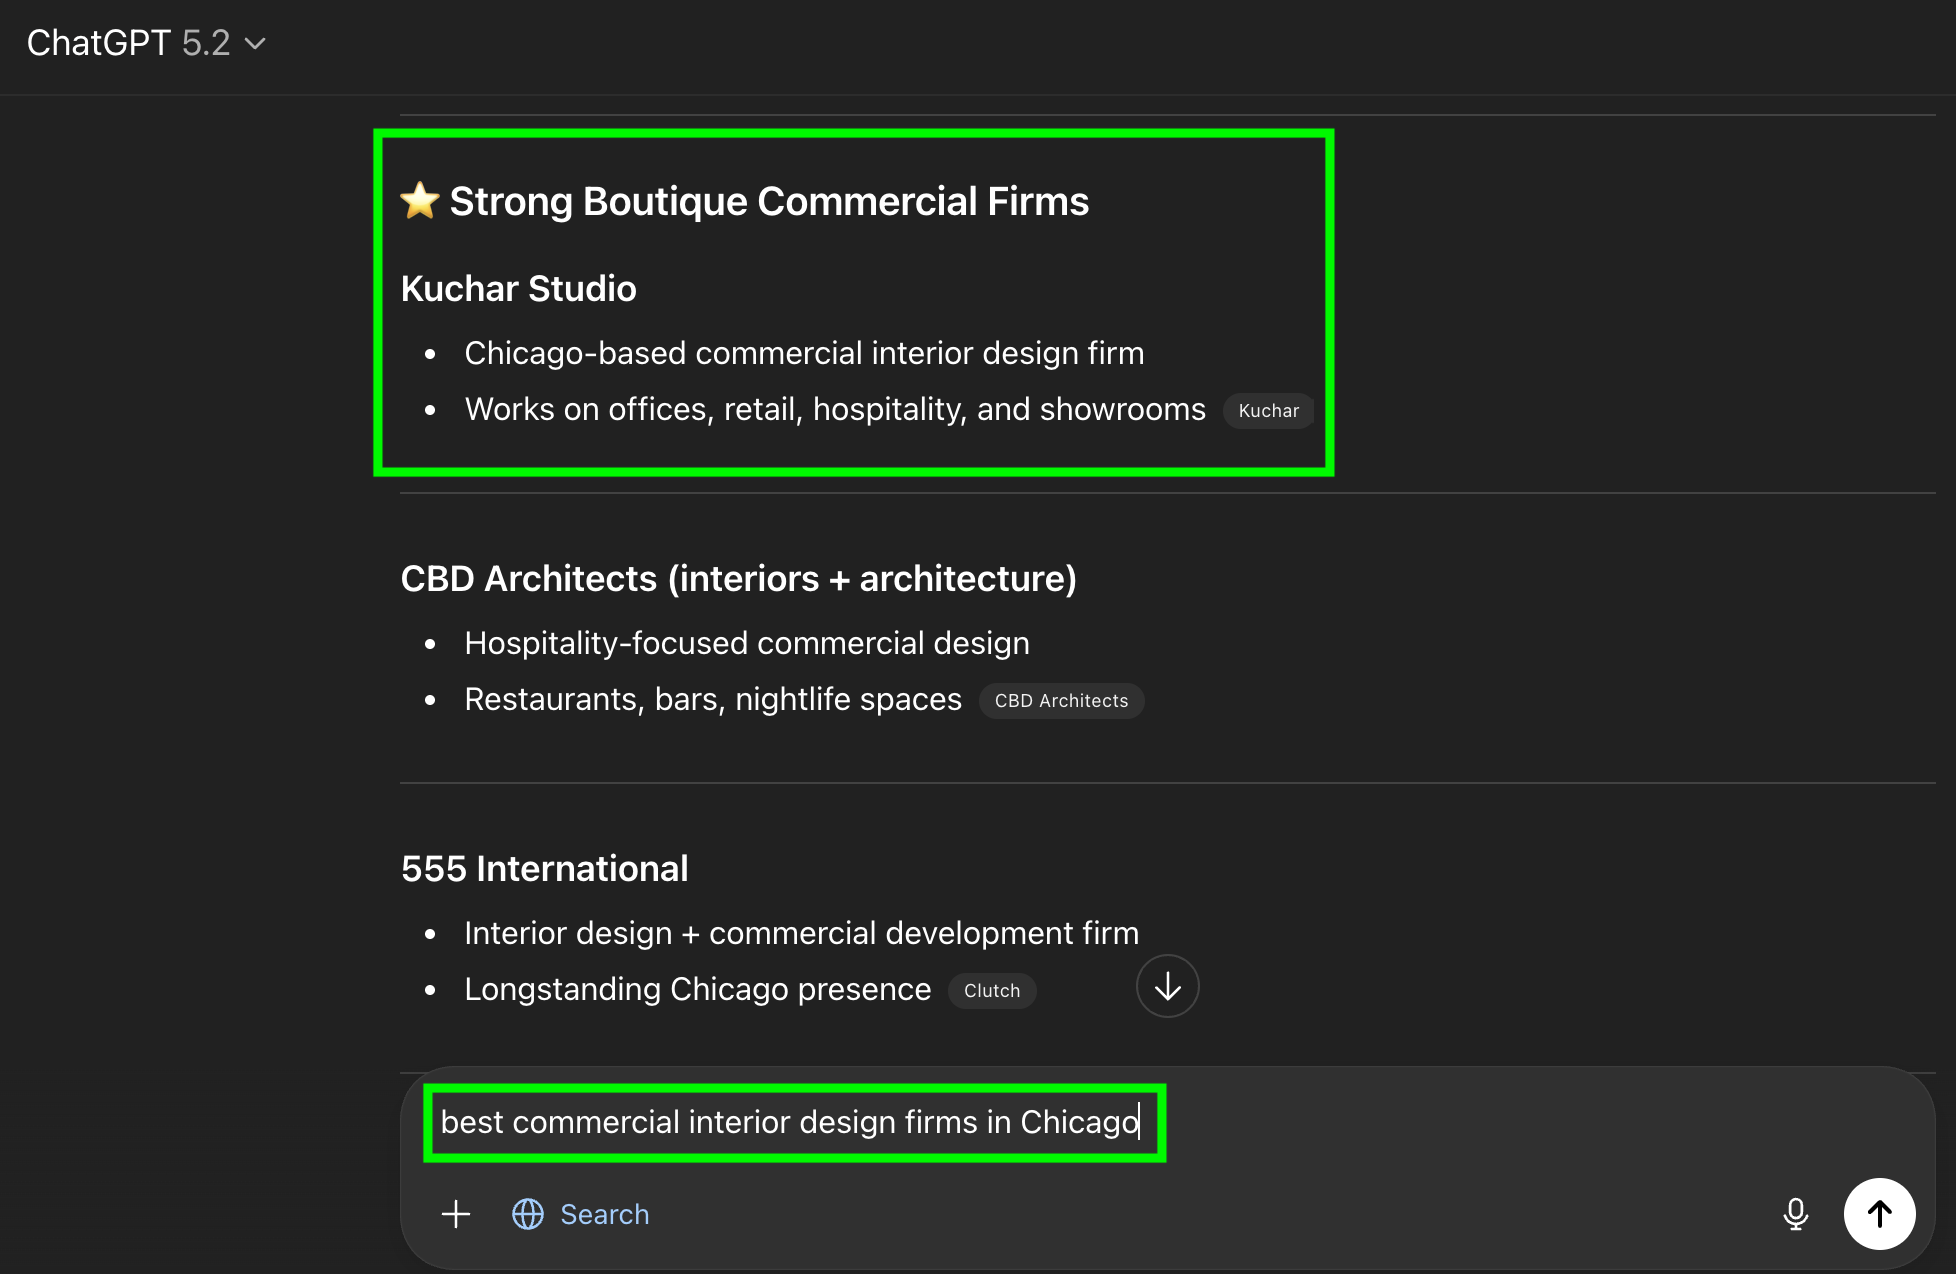
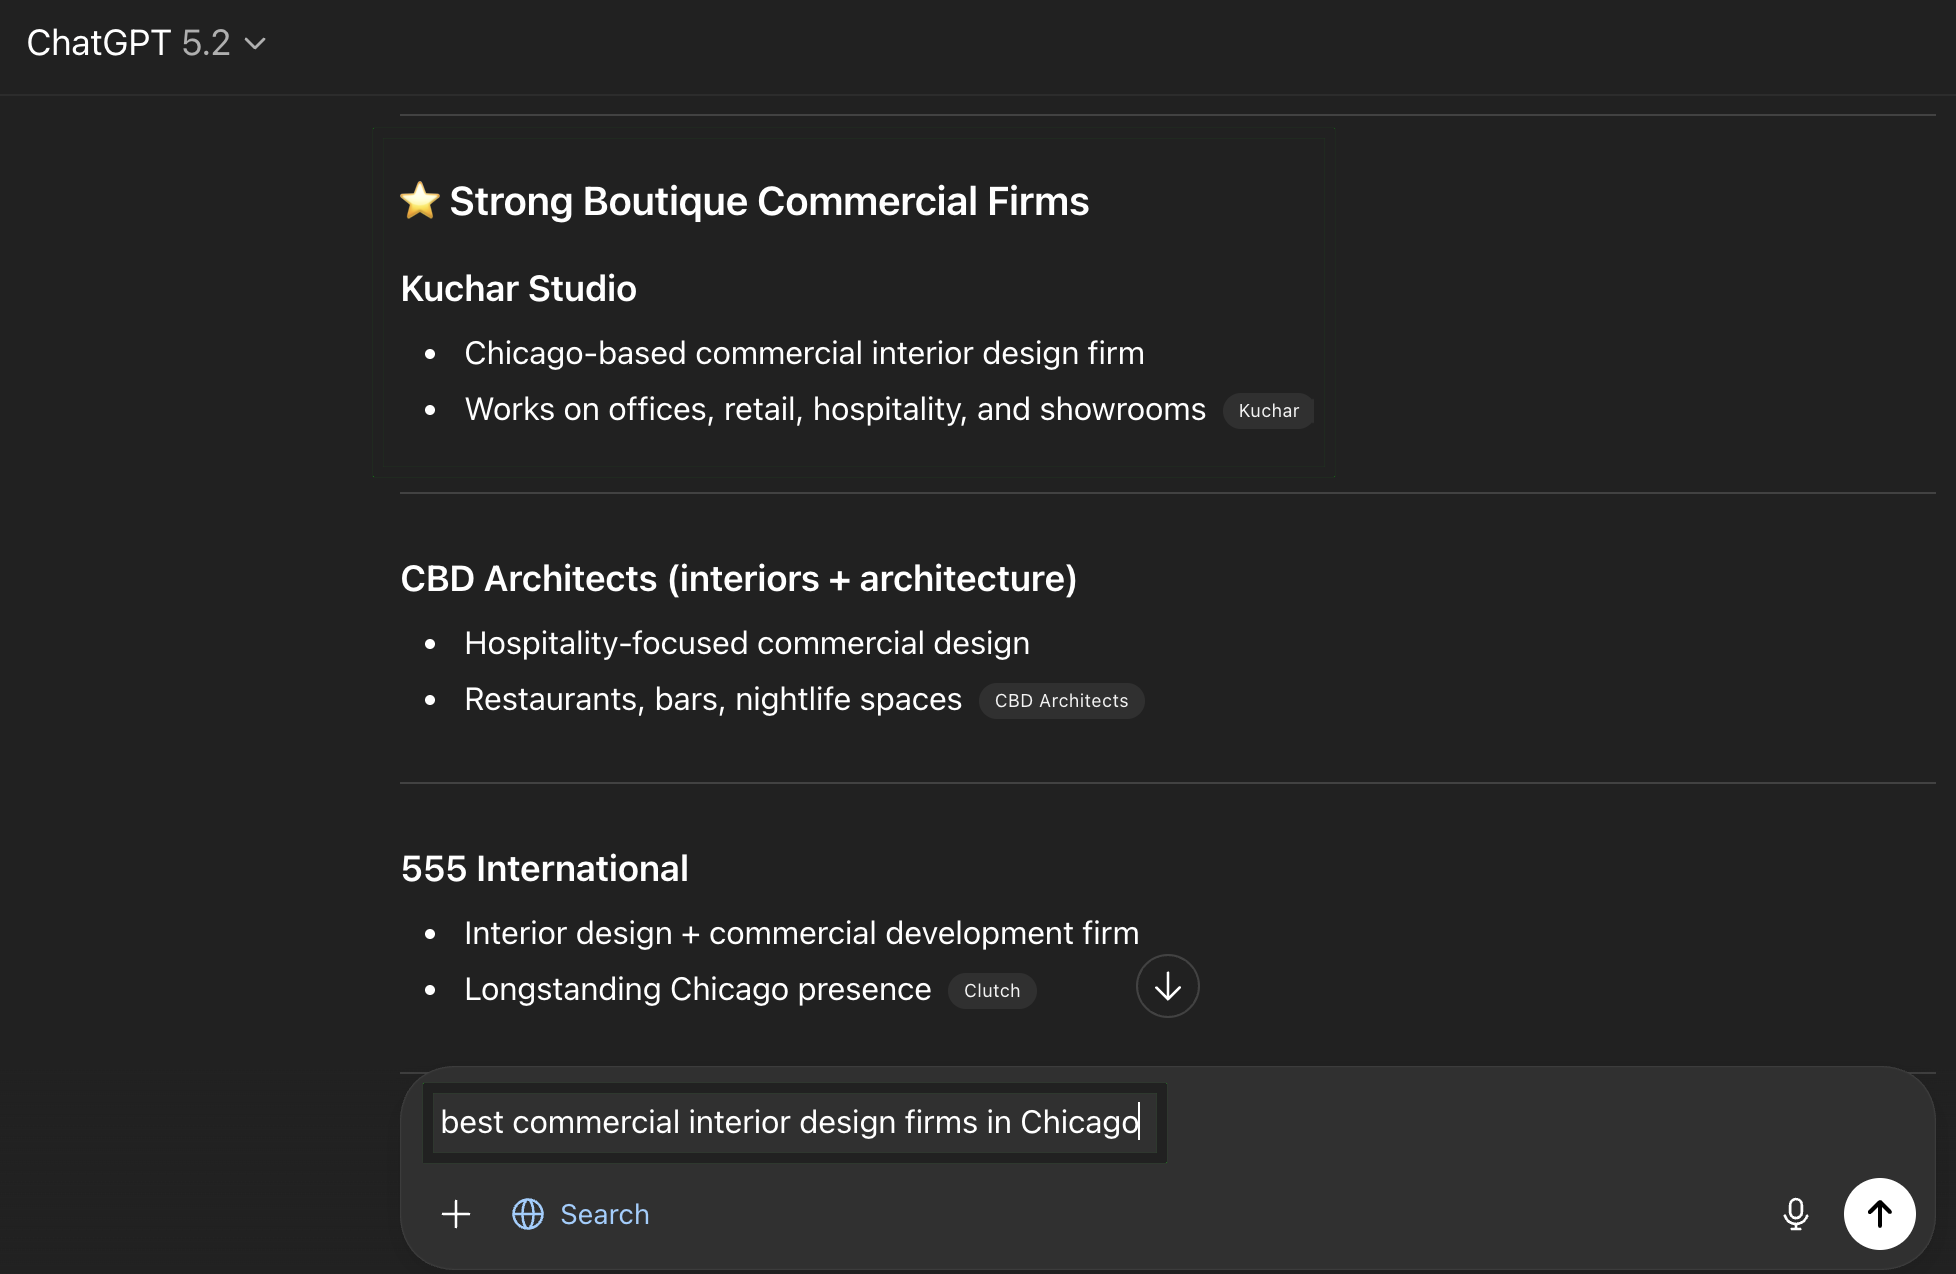
Move ChatGPT proof to top of Kuchar case study, clean up screenshot, simplify tabs

Changed region(s): [[0.1871, 0.0918, 0.6861, 0.398], [0.2183, 0.8265, 0.6237, 0.9184]]

diff --git a/index.html b/index.html
@@ -1178,9 +1178,9 @@
     <!-- ======================== TAB NAV ======================== -->
     <nav class="tab-nav">
         <div class="tab-nav-inner">
-            <button class="tab-btn active" data-tab="katie-orr">Dr. Katie Orr &mdash; Holistic Dentistry</button>
-            <button class="tab-btn" data-tab="kent-mcls">Kent State MCLS &mdash; Higher Education</button>
-            <button class="tab-btn" data-tab="kuchar">Kuchar Studio &mdash; Commercial Interior Design</button>
+            <button class="tab-btn active" data-tab="katie-orr">Holistic Dentistry</button>
+            <button class="tab-btn" data-tab="kent-mcls">Higher Education</button>
+            <button class="tab-btn" data-tab="kuchar">Commercial Interior Design</button>
         </div>
     </nav>
 
@@ -1799,39 +1799,70 @@
             </div>
         </section>
 
-        <!-- Keyword Rankings + Page Redesigns -->
+        <!-- AI Visibility -->
         <section class="dark-section">
             <div class="section-inner">
+                <div class="section-label reveal">AI visibility</div>
+                <h3 class="section-title reveal" style="font-size: clamp(1.8rem, 3.5vw, 2.2rem);">ChatGPT Lists Them <em>First</em></h3>
+                <p class="section-sub reveal reveal-d1">When someone asks ChatGPT for the best commercial interior design firms in Chicago, Kuchar Studio comes up first&mdash;without any AI-specific optimization.</p>
+
+                <div class="ai-proof reveal reveal-d2">
+                    <div class="ai-proof-screenshot">
+                        <img src="chatgpt-kuchar.png" alt="ChatGPT recommending Kuchar Studio first for best commercial interior design firms in Chicago">
+                        <div class="screenshot-highlight" style="bottom: auto; top: 8%; height: 30%;">
+                            <div class="screenshot-highlight-label">Our client &mdash; listed first</div>
+                        </div>
+                    </div>
+                    <div class="ai-proof-context">
+                        <div class="ai-proof-context-title">Why this matters</div>
+                        <div class="ai-proof-context-text">
+                            ChatGPT lists Kuchar Studio first&mdash;above larger, more established firms. It calls them a <strong>"Strong Boutique Commercial Firm"</strong> and highlights their specialty areas.<br><br>
+                            <strong style="color: var(--brand);">We didn't optimize for ChatGPT.</strong> We optimized their service pages for search. ChatGPT found them because they rank.
+                        </div>
+                        <div style="margin-top: 1.25rem; padding-top: 1rem; border-top: 1px solid rgba(236, 78, 54, 0.2);">
+                            <div style="font-size: 0.68rem; font-weight: 700; letter-spacing: 0.1em; text-transform: uppercase; color: var(--brand); margin-bottom: 0.5rem;">Google Analytics confirms it</div>
+                            <div class="ai-proof-context-text">
+                                In 2025, ChatGPT sent <strong>212 sessions</strong> to Kuchar's site. Those visits produced <strong>4 contact form submissions</strong> and <strong>2 first-time phone calls</strong>&mdash;real leads, not just traffic. For a commercial interior design firm where a single project can run well into six figures, even one of those leads justifies the channel.
+                            </div>
+                        </div>
+                    </div>
+                </div>
+            </div>
+        </section>
+
+        <!-- Keyword Rankings + Page Redesigns -->
+        <section class="light-section">
+            <div class="section-inner">
                 <div class="section-label reveal">The proof</div>
-                <h3 class="section-title reveal" style="font-size: clamp(1.8rem, 3.5vw, 2.2rem);">Multiple #1 Rankings. <em>AI Took Notice.</em></h3>
-                <p class="section-sub reveal reveal-d1">Redesigned service pages and strategic link building pushed Kuchar to #1 for their most valuable commercial interior design keywords&mdash;and ChatGPT started recommending them without any AI-specific optimization.</p>
+                <h3 class="section-title reveal" style="font-size: clamp(1.8rem, 3.5vw, 2.2rem);">Multiple #1 Rankings. <em>3 Pages Redesigned.</em></h3>
+                <p class="section-sub reveal reveal-d1">Redesigned service pages and strategic link building pushed Kuchar to #1 for their most valuable commercial interior design keywords.</p>
 
                 <!-- Top Keywords Bar Chart -->
                 <div class="bar-chart reveal reveal-d2" data-chart="bars">
                     <div class="bar-chart-row">
                         <div class="bar-chart-label">Interior Design for Offices</div>
                         <div class="bar-chart-track"><div class="bar-chart-fill accent" data-width="100"></div></div>
-                        <div class="bar-chart-value">#1 <span style="font-weight:400;font-size:0.72rem;color:var(--text-muted-light);">+199 pos</span></div>
+                        <div class="bar-chart-value">#1 <span style="font-weight:400;font-size:0.72rem;color:var(--text-secondary);">+199 pos</span></div>
                     </div>
                     <div class="bar-chart-row">
                         <div class="bar-chart-label">Commercial Interior Design Firms Chicago</div>
                         <div class="bar-chart-track"><div class="bar-chart-fill accent" data-width="100"></div></div>
-                        <div class="bar-chart-value">#1 <span style="font-weight:400;font-size:0.72rem;color:var(--text-muted-light);">held</span></div>
+                        <div class="bar-chart-value">#1 <span style="font-weight:400;font-size:0.72rem;color:var(--text-secondary);">held</span></div>
                     </div>
                     <div class="bar-chart-row">
                         <div class="bar-chart-label">Office Interior Designers Near Me</div>
                         <div class="bar-chart-track"><div class="bar-chart-fill accent" data-width="100"></div></div>
-                        <div class="bar-chart-value">#1 <span style="font-weight:400;font-size:0.72rem;color:var(--text-muted-light);">new</span></div>
+                        <div class="bar-chart-value">#1 <span style="font-weight:400;font-size:0.72rem;color:var(--text-secondary);">new</span></div>
                     </div>
                     <div class="bar-chart-row">
                         <div class="bar-chart-label">Interior Design in Chicago</div>
                         <div class="bar-chart-track"><div class="bar-chart-fill" data-width="55"></div></div>
-                        <div class="bar-chart-value">#7 <span style="font-weight:400;font-size:0.72rem;color:var(--text-muted-light);">+13 pos</span></div>
+                        <div class="bar-chart-value">#7 <span style="font-weight:400;font-size:0.72rem;color:var(--text-secondary);">+13 pos</span></div>
                     </div>
                     <div class="bar-chart-row">
                         <div class="bar-chart-label">Hospitality Design Firms Chicago</div>
                         <div class="bar-chart-track"><div class="bar-chart-fill" data-width="85"></div></div>
-                        <div class="bar-chart-value">#2 <span style="font-weight:400;font-size:0.72rem;color:var(--text-muted-light);">+1 pos</span></div>
+                        <div class="bar-chart-value">#2 <span style="font-weight:400;font-size:0.72rem;color:var(--text-secondary);">+1 pos</span></div>
                     </div>
                 </div>
 
@@ -1851,38 +1882,11 @@
                         </div>
                     </div>
                 </div>
-
-                <div class="section-divider"></div>
-
-                <div class="section-label reveal" style="margin-top: 0;">AI visibility</div>
-                <h3 class="section-title reveal" style="font-size: clamp(1.5rem, 3vw, 1.8rem);">ChatGPT Lists Them <em>First</em></h3>
-
-                <div class="ai-proof reveal reveal-d1">
-                    <div class="ai-proof-screenshot">
-                        <img src="chatgpt-kuchar.png" alt="ChatGPT recommending Kuchar Studio first for best commercial interior design firms in Chicago">
-                        <div class="screenshot-highlight" style="bottom: auto; top: 8%; height: 30%;">
-                            <div class="screenshot-highlight-label">Our client &mdash; listed first</div>
-                        </div>
-                    </div>
-                    <div class="ai-proof-context">
-                        <div class="ai-proof-context-title">Why this matters</div>
-                        <div class="ai-proof-context-text">
-                            When asked for the best commercial interior design firms in Chicago, ChatGPT lists Kuchar Studio first&mdash;above larger, more established firms. It calls them a <strong>"Strong Boutique Commercial Firm"</strong> and highlights their specialty areas.<br><br>
-                            <strong style="color: var(--brand);">We didn't optimize for ChatGPT.</strong> We optimized their service pages for search. ChatGPT found them because they rank.
-                        </div>
-                        <div style="margin-top: 1.25rem; padding-top: 1rem; border-top: 1px solid rgba(236, 78, 54, 0.2);">
-                            <div style="font-size: 0.68rem; font-weight: 700; letter-spacing: 0.1em; text-transform: uppercase; color: var(--brand); margin-bottom: 0.5rem;">Google Analytics confirms it</div>
-                            <div class="ai-proof-context-text">
-                                In 2025, ChatGPT sent <strong>212 sessions</strong> to Kuchar's site. Those visits produced <strong>4 contact form submissions</strong> and <strong>2 first-time phone calls</strong>&mdash;real leads, not just traffic. For a commercial interior design firm where a single project can run well into six figures, even one of those leads justifies the channel.
-                            </div>
-                        </div>
-                    </div>
-                </div>
             </div>
         </section>
 
         <!-- Service Page Performance -->
-        <section class="light-section">
+        <section class="dark-section">
             <div class="section-inner">
                 <div class="section-label reveal">Page performance</div>
                 <h3 class="section-title reveal" style="font-size: clamp(1.8rem, 3.5vw, 2.2rem);">Redesigned Pages. <em>Real Growth.</em></h3>
@@ -1900,7 +1904,7 @@
                             </div>
                             <div class="growth-bar-group">
                                 <div class="growth-bar-value">14</div>
-                                <div class="growth-bar after" data-height="120"></div>
+                                <div class="growth-bar after" data-height="80"></div>
                                 <div class="growth-bar-label">After</div>
                             </div>
                         </div>
@@ -1916,7 +1920,7 @@
                             </div>
                             <div class="growth-bar-group">
                                 <div class="growth-bar-value">47</div>
-                                <div class="growth-bar after" data-height="120"></div>
+                                <div class="growth-bar after" data-height="80"></div>
                                 <div class="growth-bar-label">After</div>
                             </div>
                         </div>
@@ -1984,7 +1988,7 @@
         </section>
 
         <!-- Leads + ROI -->
-        <section class="dark-section">
+        <section class="light-section">
             <div class="section-inner">
                 <div class="section-label reveal">Leads &amp; ROI</div>
                 <h3 class="section-title reveal" style="font-size: clamp(1.8rem, 3.5vw, 2.2rem);">24 Leads. <em>$148.5K Revenue. 3x ROI.</em></h3>
@@ -2041,7 +2045,7 @@
                                 <div class="roi-legend-left"><div class="roi-dot cost"></div>SCM fees invested</div>
                                 <div class="roi-legend-value">~$49,500</div>
                             </div>
-                            <div class="roi-legend-row" style="margin-top: 0.5rem; padding-top: 0.75rem; border-top: 1px solid var(--dark-border);">
+                            <div class="roi-legend-row" style="margin-top: 0.5rem; padding-top: 0.75rem; border-top: 1px solid var(--border-light);">
                                 <div class="roi-legend-left"><div class="roi-dot net"></div><strong>Net return</strong></div>
                                 <div class="roi-legend-value" style="color: var(--green);">~$99,000</div>
                             </div>
